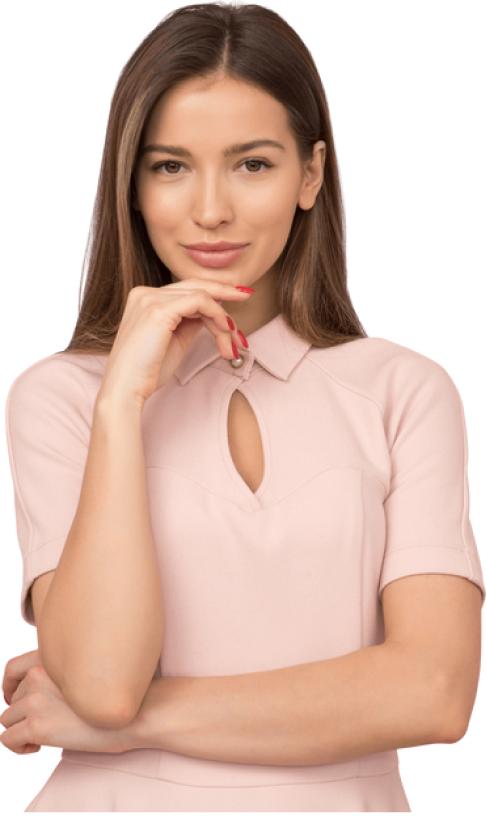
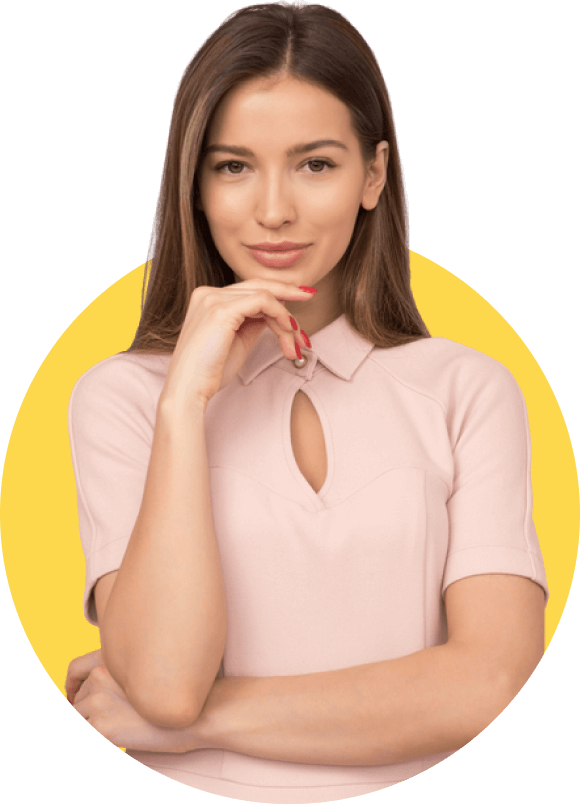
content-second

diff --git a/index.html b/index.html
@@ -19,7 +19,11 @@
             <div class="first-screen__header">
               <a href="#" class="first-screen__logo">Сладкий сундук</a>
               <div class="first-screen__contact">
-                <a href="#" class="first-screen__address">
+                <a
+                  href="https://yandex.ru/maps/2/saint-petersburg/house/ulitsa_kuybysheva_31/Z0kYdQRjTEcHQFtjfXV0dnhqbA==/?from=tabbar&ll=30.333802%2C59.957362&source=serp_navig&z=16.2"
+                  class="first-screen__address"
+                  target="_blank"
+                >
                   г. Санкт Петербург, ул. Куйбышева 31
                 </a>
                 <div class="first-screen__coll">
@@ -44,7 +48,7 @@
                 <p>Доставка на авто в холодильнике.</p>
               </div>
               <div class="first-screen__link">
-                <a href="#" class="first-screen__button button">
+                <a href="#product-catalog" class="first-screen__button button">
                   Перейти в каталог
                 </a>
                 <div class="first-screen__text">
@@ -69,7 +73,7 @@
           </div>
         </div>
         <div class="content">
-          <div class="product-catalog">
+          <div class="product-catalog" id="product-catalog">
             <div class="container container_product-catalog">
               <h2 class="product-catalog__title title">
                 Для любых событий и дорогих вам людей
@@ -372,6 +376,48 @@
                       name="foto"
                       value=""
                     />
+                  </div>
+                </div>
+              </div>
+            </div>
+          </div>
+          <div class="content-second">
+            <div class="container">
+              <div class="content-second__body">
+                <div class="content-second__row">
+                  <div class="content-second__predtitle predtitle">
+                    Кто будет готовить?
+                  </div>
+                  <h1 class="content-second__title title">
+                    Лично приготовлю и&nbsp;всё красиво упакую для вашего
+                    события
+                  </h1>
+                  <ul class="content-second__text">
+                    <li>
+                      Проконсультирую по&nbsp;выбору капкейков и&nbsp;придумаю
+                      нестандартную идею
+                    </li>
+                    <li>
+                      Приготовлю капкейки для вашего события, которые
+                      обязательно всем понравятся
+                    </li>
+                    <li>
+                      Аккуратно и&nbsp;красиво всё упакую, если вы&nbsp;хотите
+                      сделать приятный подарок
+                    </li>
+                  </ul>
+                  <div class="content-second__link">
+                    <a class="content-second__button button">
+                      Задать вопрос Юлии
+                    </a>
+                  </div>
+                </div>
+                <div class="content-second__confectioner">
+                  <div class="content-second__image">
+                    <img src="./img/content-second/01.png" alt="" />
+                  </div>
+                  <div class="content-second__name">
+                    <img src="./img/content-second/name.png" alt="" />
                   </div>
                 </div>
               </div>

diff --git a/css/style.css b/css/style.css
@@ -632,7 +632,7 @@ a {
 @media (max-width: 767px) {
   .content-first {
     background: url("../img/content-first/bg__1000.jpg") 50% 50% no-repeat;
-    height: 600px;
+    height: 640px;
     padding: 10px 0;
   }
 }
@@ -700,4 +700,131 @@ a {
   width: 100%;
   height: 100%;
   opacity: 0;
+}
+
+.content-second {
+  color: #2e363e;
+}
+.content-second__body {
+  display: -webkit-box;
+  display: -ms-flexbox;
+  display: flex;
+  gap: 20px;
+  -webkit-box-pack: justify;
+      -ms-flex-pack: justify;
+          justify-content: space-between;
+}
+@media (max-width: 1010px) {
+  .content-second__body {
+    -webkit-box-orient: vertical;
+    -webkit-box-direction: normal;
+        -ms-flex-direction: column;
+            flex-direction: column;
+    -webkit-box-align: center;
+        -ms-flex-align: center;
+            align-items: center;
+    margin: 10px 0px 20px 0px;
+    gap: 40px;
+  }
+}
+.content-second__row {
+  -webkit-box-flex: 1;
+      -ms-flex: 1 1 50%;
+          flex: 1 1 50%;
+  margin: 97px 0;
+  max-width: 580px;
+  padding: 0 20px;
+}
+@media (max-width: 1300px) {
+  .content-second__row {
+    margin: 0;
+  }
+}
+.content-second__title {
+  margin-bottom: 36px;
+}
+@media (max-width: 767px) {
+  .content-second__title {
+    margin-bottom: 16px;
+    letter-spacing: -1px;
+    line-height: 30px;
+  }
+}
+.content-second__text {
+  display: -webkit-box;
+  display: -ms-flexbox;
+  display: flex;
+  -webkit-box-orient: vertical;
+  -webkit-box-direction: normal;
+      -ms-flex-direction: column;
+          flex-direction: column;
+  gap: 30px;
+  margin: 0px 0px 30px 0px;
+  font-weight: 400;
+  font-size: 18px;
+  line-height: 150%;
+  max-width: 438px;
+}
+@media (max-width: 767px) {
+  .content-second__text {
+    font-size: 14px;
+    gap: 15px;
+  }
+}
+.content-second__text li {
+  position: relative;
+  padding-left: 22px;
+}
+.content-second__text li::before {
+  content: "";
+  position: absolute;
+  top: 7px;
+  left: 0;
+  width: 10px;
+  height: 10px;
+  background-color: #5d6afb;
+  border-radius: 50%;
+}
+.content-second__confectioner {
+  -webkit-box-flex: 0;
+      -ms-flex: 0 0 580px;
+          flex: 0 0 580px;
+  position: relative;
+}
+@media (max-width: 1300px) {
+  .content-second__confectioner {
+    -webkit-box-flex: 0;
+        -ms-flex: 0 0 380px;
+            flex: 0 0 380px;
+  }
+}
+.content-second__name {
+  position: absolute;
+  z-index: 1;
+  bottom: 21%;
+  left: -92px;
+  width: 49.483%;
+  height: 112px;
+}
+@media (max-width: 1300px) {
+  .content-second__name {
+    left: 0;
+  }
+}
+@media (max-width: 640px) {
+  .content-second__name {
+    bottom: 0;
+  }
+}
+.content-second__name img {
+  width: 100%;
+}
+.content-second__image {
+  height: 100%;
+  width: 100%;
+  border-radius: 307px;
+  overflow: hidden;
+}
+.content-second__image img {
+  width: 100%;
 }

diff --git a/$source/scss/style.scss b/$source/scss/style.scss
@@ -506,7 +506,7 @@ a {
 	}
 	@media (max-width: 767px) {
 		background: url("../img/content-first/bg__1000.jpg") 50% 50% no-repeat;
-		height: 600px;
+		height: 640px;
 		padding: 10px 0;
 	}
 	// .content-first__body
@@ -588,4 +588,127 @@ a {
 	}
 
 	// .content-first__text
+}
+
+.content-second {
+	color: #2e363e;
+	// .content-second__body
+
+	&__body {
+		display: flex;
+		gap: 20px;
+		justify-content: space-between;
+		@media (max-width: 1010px) {
+			flex-direction: column;
+			align-items: center;
+			margin: 10px 0px 20px 0px;
+			gap: 40px;
+		}
+	}
+
+	&__row {
+		flex: 1 1 50%;
+		margin: 97px 0;
+		max-width: 580px;
+		padding: 0 20px;
+		@media (max-width: 1300px) {
+			margin: 0;
+		}
+	}
+
+	// .content-second__predtitle
+
+	&__predtitle {
+	}
+
+	// .content-second__title
+
+	&__title {
+		margin-bottom: 36px;
+		@media (max-width: 767px) {
+			margin-bottom: 16px;
+			letter-spacing: -1px;
+			line-height: 30px;
+		}
+	}
+
+	// .content-second__subtitle
+
+	&__text {
+		display: flex;
+		flex-direction: column;
+		gap: 30px;
+		margin: 0px 0px 30px 0px;
+		font-weight: 400;
+		font-size: 18px;
+		line-height: 150%;
+		max-width: 438px;
+		@media (max-width: 767px) {
+			font-size: 14px;
+			gap: 15px;
+		}
+	}
+
+	&__text li {
+		position: relative;
+		padding-left: 22px;
+		&::before {
+			content: "";
+			position: absolute;
+			top: 7px;
+			left: 0;
+			width: 10px;
+			height: 10px;
+			background-color: #5d6afb;
+			border-radius: 50%;
+		}
+	}
+
+	// .content-second__link
+
+	&__link {
+	}
+
+	// .content-second__button
+
+	&__button {
+	}
+
+	&__confectioner {
+		flex: 0 0 580px;
+		position: relative;
+		@media (max-width: 1300px) {
+			flex: 0 0 380px;
+		}
+	}
+
+	&__name {
+		position: absolute;
+		z-index: 1;
+		bottom: 21%;
+		left: -92px;
+		width: 49.483%;
+		height: 112px;
+		@media (max-width: 1300px) {
+			left: 0;
+		}
+		@media (max-width: 640px) {
+			bottom: 0;
+		}
+	}
+
+	&__name img {
+		width: 100%;
+	}
+
+	&__image {
+		height: 100%;
+		width: 100%;
+		border-radius: 307px;
+		overflow: hidden;
+	}
+
+	&__image img {
+		width: 100%;
+	}
 }

diff --git a/js/script.js b/js/script.js
@@ -38,7 +38,6 @@ if (menuLinks.length > 0) {
 	}
 }
 
-
 // Применение класса "ibg"
 function ibg() {
 
